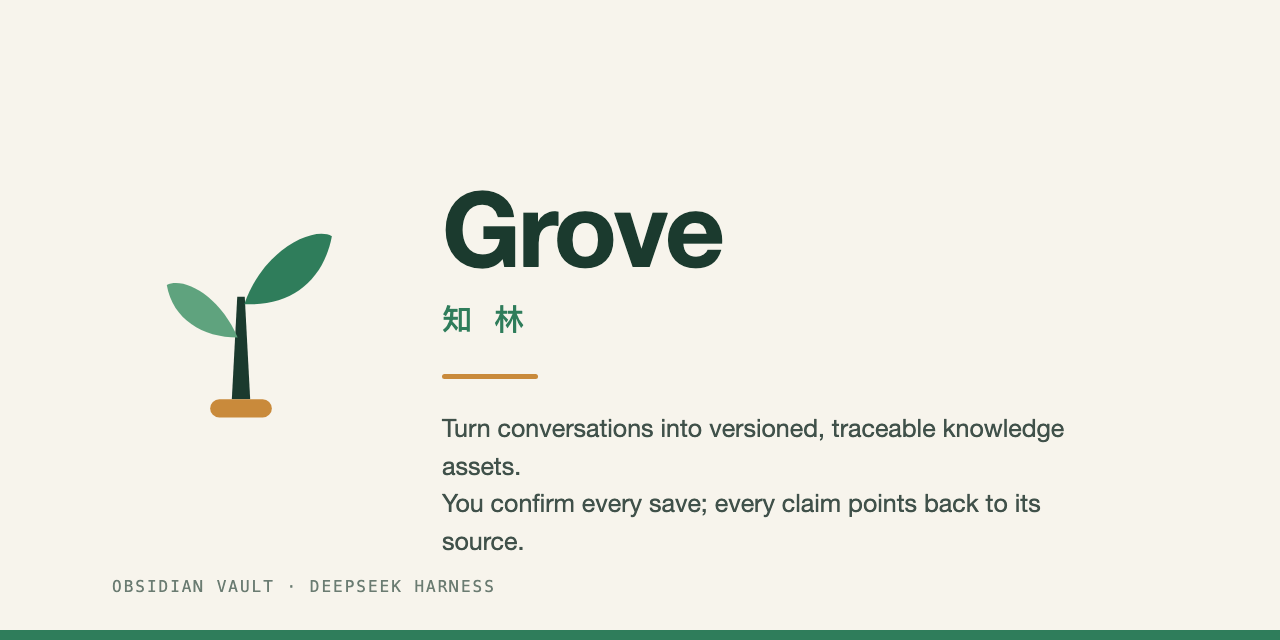
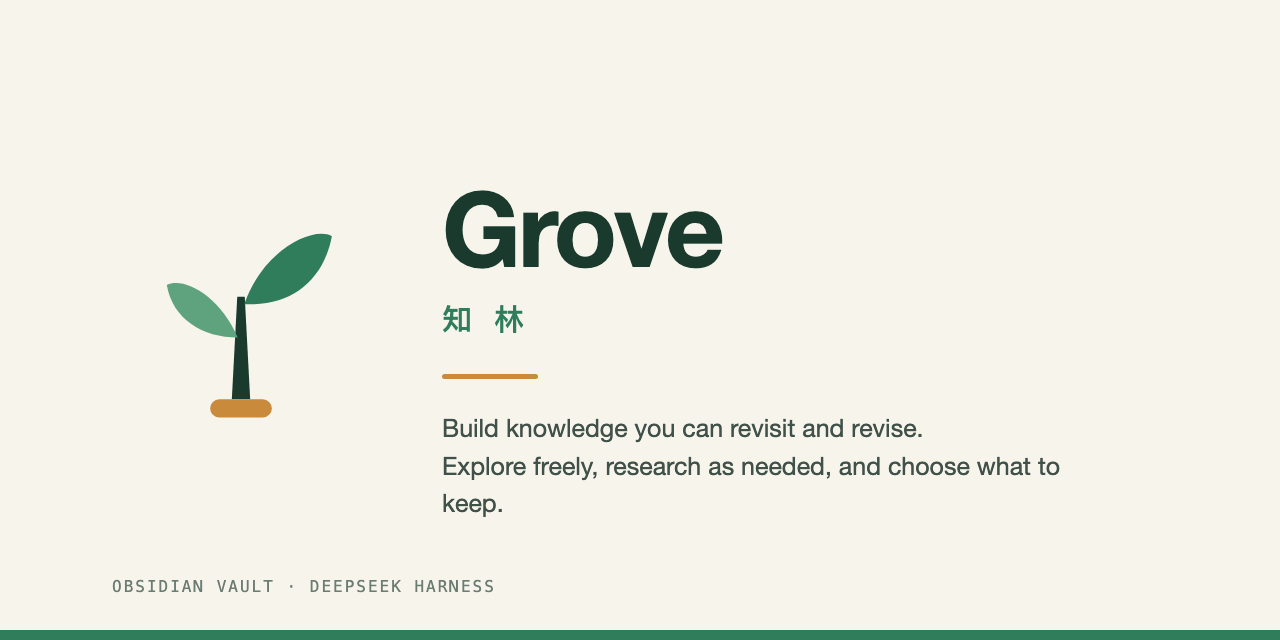
docs: clarify Grove’s vision and product principles
Explain how open exploration, evidence and revisions, and user control support independent judgment. Align the public copy across the README, plugin metadata, and brand assets.

Changed region(s): [[0.3438, 0.7188, 0.8438, 0.875], [0.3438, 0.6562, 0.8438, 0.6875]]

diff --git a/brand/src/readme-header.zh.html b/brand/src/readme-header.zh.html
@@ -4,7 +4,7 @@
   <img src="../mark.svg" style="position:absolute;left:120px;top:126px;width:228px;height:228px;">
   <div style="position:absolute;left:400px;top:140px;font-family:'SF Pro Display','Helvetica Neue',Helvetica,Arial,sans-serif;">
     <div style="font-size:88px;line-height:1;font-weight:600;letter-spacing:-2.5px;color:#1B3A2E;">Grove <span style="font-family:'PingFang SC','Source Han Sans SC',sans-serif;font-size:40px;font-weight:500;letter-spacing:4px;color:#2F7D5B;vertical-align:6px;">知林</span></div>
-    <div style="margin-top:22px;font-family:'PingFang SC','Source Han Sans SC',sans-serif;font-size:24px;color:#40514A;">Obsidian 里的个人知识成长：捕捉灵感、沉淀资产、带证据做研究。</div>
+    <div style="margin-top:22px;font-family:'PingFang SC','Source Han Sans SC',sans-serif;font-size:24px;color:#40514A;">积累可回看、可修正的知识，形成自己的判断。</div>
     <div style="margin-top:26px;display:flex;gap:12px;font-family:'SF Mono','SFMono-Regular',Menlo,monospace;font-size:15px;color:#5A6B61;">
       <span style="border:1px solid #C3D3C9;border-radius:999px;padding:7px 16px;">dsh plugin</span>
       <span style="border:1px solid #C3D3C9;border-radius:999px;padding:7px 16px;">Obsidian vault</span>

diff --git a/brand/src/readme-header.en.html b/brand/src/readme-header.en.html
@@ -4,7 +4,7 @@
   <img src="../mark.svg" style="position:absolute;left:120px;top:126px;width:228px;height:228px;">
   <div style="position:absolute;left:400px;top:140px;font-family:'SF Pro Display','Helvetica Neue',Helvetica,Arial,sans-serif;">
     <div style="font-size:88px;line-height:1;font-weight:600;letter-spacing:-2.5px;color:#1B3A2E;">Grove <span style="font-family:'PingFang SC','Source Han Sans SC',sans-serif;font-size:38px;font-weight:500;letter-spacing:4px;color:#2F7D5B;vertical-align:6px;">知林</span></div>
-    <div style="margin-top:22px;font-size:24px;color:#40514A;">Personal knowledge growth in Obsidian: capture ideas, keep versioned notes, research with evidence.</div>
+    <div style="margin-top:22px;font-size:24px;color:#40514A;">Build knowledge you can revisit and revise. Develop your own judgment.</div>
     <div style="margin-top:26px;display:flex;gap:12px;font-family:'SF Mono','SFMono-Regular',Menlo,monospace;font-size:15px;color:#5A6B61;">
       <span style="border:1px solid #C3D3C9;border-radius:999px;padding:7px 16px;">dsh plugin</span>
       <span style="border:1px solid #C3D3C9;border-radius:999px;padding:7px 16px;">Obsidian vault</span>

diff --git a/brand/src/social-preview.zh.html b/brand/src/social-preview.zh.html
@@ -6,7 +6,7 @@
     <div style="font-size:104px;line-height:1;font-weight:600;letter-spacing:-3px;color:#1B3A2E;">Grove</div>
     <div style="margin-top:18px;font-family:'PingFang SC','Source Han Sans SC',sans-serif;font-size:34px;font-weight:500;letter-spacing:6px;color:#2F7D5B;">知 林</div>
     <div style="margin-top:34px;width:96px;height:5px;border-radius:3px;background:#C98A3B;"></div>
-    <div style="margin-top:30px;font-family:'PingFang SC','Source Han Sans SC',sans-serif;font-size:26px;line-height:1.5;color:#40514A;width:610px;">让每次对话，长成可版本化、可追溯的知识资产。<br>保存由你确认，证据可回到出处。</div>
+    <div style="margin-top:30px;font-family:'PingFang SC','Source Han Sans SC',sans-serif;font-size:26px;line-height:1.5;color:#40514A;width:610px;">积累可回看、可修正的知识，形成自己的判断。<br>自由探索，按需研究，保存由你确认。</div>
   </div>
   <div style="position:absolute;left:112px;bottom:44px;font-family:'SF Mono','SFMono-Regular',Menlo,monospace;font-size:16px;letter-spacing:2px;color:#6B7C72;">OBSIDIAN VAULT · DEEPSEEK HARNESS</div>
 </div></body></html>

diff --git a/brand/src/social-preview.en.html b/brand/src/social-preview.en.html
@@ -6,7 +6,7 @@
     <div style="font-size:104px;line-height:1;font-weight:600;letter-spacing:-3px;color:#1B3A2E;">Grove</div>
     <div style="margin-top:18px;font-family:'PingFang SC','Source Han Sans SC',sans-serif;font-size:30px;font-weight:500;letter-spacing:6px;color:#2F7D5B;">知 林</div>
     <div style="margin-top:34px;width:96px;height:5px;border-radius:3px;background:#C98A3B;"></div>
-    <div style="margin-top:30px;font-size:25px;line-height:1.5;color:#40514A;width:640px;">Turn conversations into versioned, traceable knowledge assets.<br>You confirm every save; every claim points back to its source.</div>
+    <div style="margin-top:30px;font-size:25px;line-height:1.5;color:#40514A;width:640px;">Build knowledge you can revisit and revise.<br>Explore freely, research as needed, and choose what to keep.</div>
   </div>
   <div style="position:absolute;left:112px;bottom:44px;font-family:'SF Mono','SFMono-Regular',Menlo,monospace;font-size:16px;letter-spacing:2px;color:#6B7C72;">OBSIDIAN VAULT · DEEPSEEK HARNESS</div>
 </div></body></html>

diff --git a/README.md b/README.md
@@ -1,8 +1,16 @@
 # Grove（知林）
 
-![Grove：让每次对话长成可追溯的知识资产](brand/exports/readme-header-1600x480.zh.png)
+![Grove 知林，积累可回看、可修正的知识](brand/exports/readme-header-1600x480.zh.png)
 
-Grove 是 DeepSeek Harness 的个人知识成长插件。用 Obsidian vault 保存灵感、问题、知识资产和研究证据。探索是常态，研究是选择，成果自然生长。
+Grove 是一个连接 DeepSeek Harness 与 Obsidian 的个人知识成长插件。它让你从一个念头或问题开始，与 AI 自由讨论，把值得留下的内容存进自己的 Obsidian vault，并在需要时追踪研究证据。
+
+## 愿景与设计原则
+
+**帮助人积累可回看、可修正的知识，在长期探索中形成自己的判断。** 今天记下的疑问，几个月后可能和一篇新读到的论文连起来。以前的判断也可以随新证据修订，并保留当时的依据。Grove 源于个人知识与认知成长系统（PKGS）的构想。当前插件从自由探索、自主保存和基础研究做起，让过去的思考能成为下一次探索的起点。
+
+- **探索是常态，研究是选择，成果自然生长。** 可以从模糊的念头聊起，随时停下。值得保留的内容可以记成灵感或开放问题，由你决定何时深究、是否形成成果。
+- **让判断有据可查，也有修正的余地。** 记录证据的出处和定位，并把支持、反驳或限定的证据连到具体版本。新的证据可以改变判断，旧版本仍可回看。
+- **AI 是思考伙伴，判断和知识由人掌握。** AI 可以追问、提出不同解释、帮你起草。你决定采纳什么、保存什么、分享什么。知识以 Markdown 保存在自己的 Obsidian vault 中，可以阅读、编辑和迁移。
 
 ## 安装 v0.1.1
 

diff --git a/docs/DETAIL.en.md b/docs/DETAIL.en.md
@@ -1,6 +1,10 @@
 # Grove
 
-Grove turns DeepSeek Harness conversations into versioned knowledge assets in an Obsidian vault: inspirations, questions, concepts, theories, judgements, methods, outputs, explorations and research projects. AI helps you think; **every saved asset is confirmed by you**.
+Grove connects DeepSeek Harness and Obsidian to help you build knowledge you can revisit and revise, and develop your own judgment over time. The current plugin supports open-ended exploration, user-confirmed saves, and basic research.
+
+- **Explore freely and pursue research when it serves you.** Start with a passing idea and stop whenever you like. Keep an open question for later and decide whether to develop it into a project or a finished work.
+- **Keep the evidence and the history of your thinking.** Record where evidence came from and link it to the version of a claim it supports, challenges, or qualifies. Revisit that record when your judgment changes.
+- **Think with AI and stay in control of your knowledge.** AI can ask questions, offer other explanations, and draft notes. You decide what to adopt, save, and share. Your saved knowledge lives in your own Obsidian vault as Markdown.
 
 ## What it provides
 

diff --git a/docs/DETAIL.zh.md b/docs/DETAIL.zh.md
@@ -1,6 +1,10 @@
 # Grove（知林）
 
-Grove 把 DeepSeek Harness 里的对话，变成 Obsidian vault 里可版本化的知识资产：灵感、问题、概念、理论、判断、方法、成果、探索、研究。AI 协助思考，**保存始终由你确认**。
+Grove 是连接 DeepSeek Harness 与 Obsidian 的个人知识成长插件，帮助你积累可回看、可修正的知识，在长期探索中形成自己的判断。当前版本支持自由探索、自主保存和基础研究。
+
+- **自由探索，按需研究。** 从一个念头开始，随时停下。你可以留下开放问题，等值得深究时再开展研究，成果由你决定。
+- **保留依据和修订过程。** 记录证据出处，把支持、反驳或限定的证据连到具体版本，以便重查和修正判断。
+- **AI 协助思考，你掌握判断和知识。** AI 可以追问、提出不同解释和起草。你决定采纳、保存和分享什么，留下的知识以 Markdown 保存在自己的 Obsidian vault 中。
 
 ## 提供什么
 

diff --git a/brand/VI.md b/brand/VI.md
@@ -1,6 +1,6 @@
 # Grove 视觉识别（VI）
 
-Grove 的品牌主张：**让每次对话，长成可追溯的知识资产。** 视觉上要克制、具体、可核对——像一份归档良好的笔记，而不是一张宣传海报。
+Grove 的品牌主张：**积累可回看、可修正的知识，形成自己的判断。** 视觉上要克制、具体、可核对——像一份归档良好的笔记，而不是一张宣传海报。
 
 ## 1. 标志
 

diff --git a/brand/VI.en.md b/brand/VI.en.md
@@ -1,6 +1,6 @@
 # Grove visual identity (VI)
 
-Grove's brand line: **turn conversations into traceable knowledge assets.** The visual tone is restrained, concrete and auditable — closer to a well-filed notebook than to a poster.
+Grove's brand line: **Build knowledge you can revisit and revise. Develop your own judgment.** The visual tone is restrained, concrete and auditable — closer to a well-filed notebook than to a poster.
 
 ## 1. The mark
 
